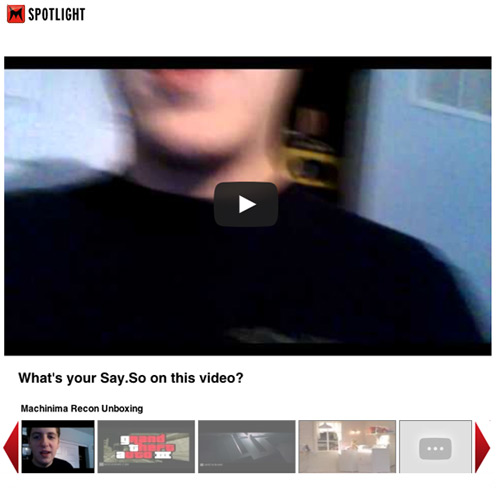
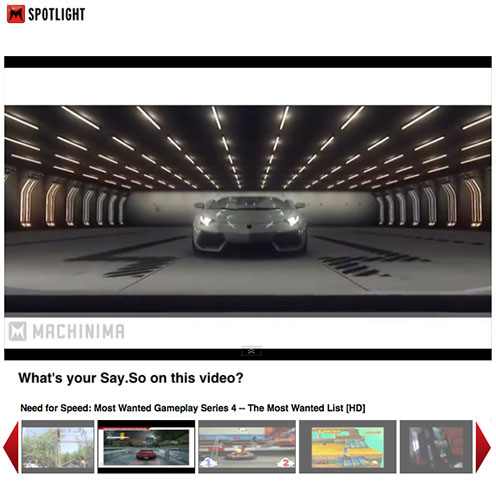
Once again, spotlight Image.

diff --git a/public/browserapp/css/build/generic.css b/public/browserapp/css/build/generic.css
@@ -1806,7 +1806,7 @@
 }
 #sayso-section-container.sayso-section-spotlight #sayso-section,
 #sayso-section-container.sayso-section-tour-spotlight #sayso-section {
-  left: 333px;
+  left: 500px;
   width: 560px;
   height: 500px;
 }

diff --git a/public/browserapp/css/build/machinima.css b/public/browserapp/css/build/machinima.css
@@ -1806,7 +1806,7 @@
 }
 #sayso-section-container.sayso-section-spotlight #sayso-section,
 #sayso-section-container.sayso-section-tour-spotlight #sayso-section {
-  left: 333px;
+  left: 500px;
   width: 560px;
   height: 500px;
 }

diff --git a/public/browserapp/css/build/movie.css b/public/browserapp/css/build/movie.css
@@ -1806,7 +1806,7 @@
 }
 #sayso-section-container.sayso-section-spotlight #sayso-section,
 #sayso-section-container.sayso-section-tour-spotlight #sayso-section {
-  left: 333px;
+  left: 500px;
   width: 560px;
   height: 500px;
 }

diff --git a/public/browserapp/css/src/generic.less b/public/browserapp/css/src/generic.less
@@ -1790,7 +1790,7 @@
 
     &.sayso-section-spotlight, &.sayso-section-tour-spotlight {
         #sayso-section {
-            left: 333px;
+            left: 500px;
             width: 560px;
             height: 500px;
 
